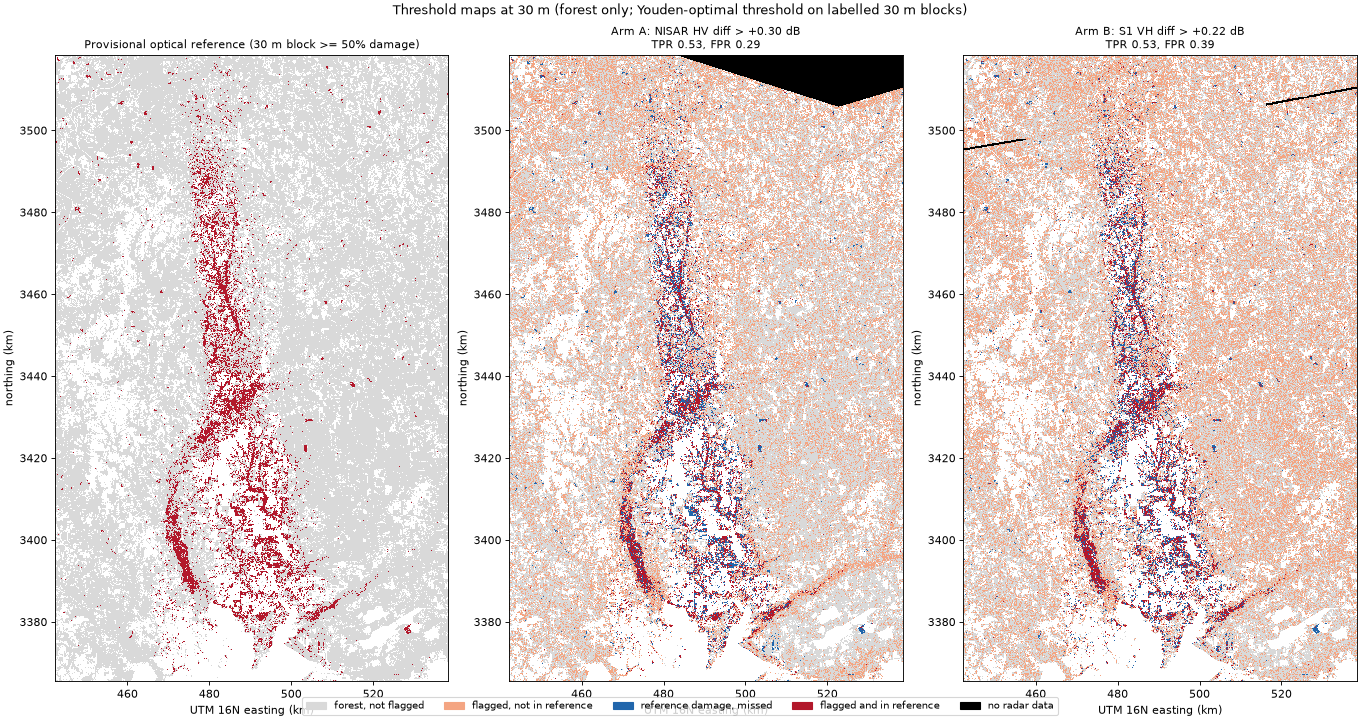
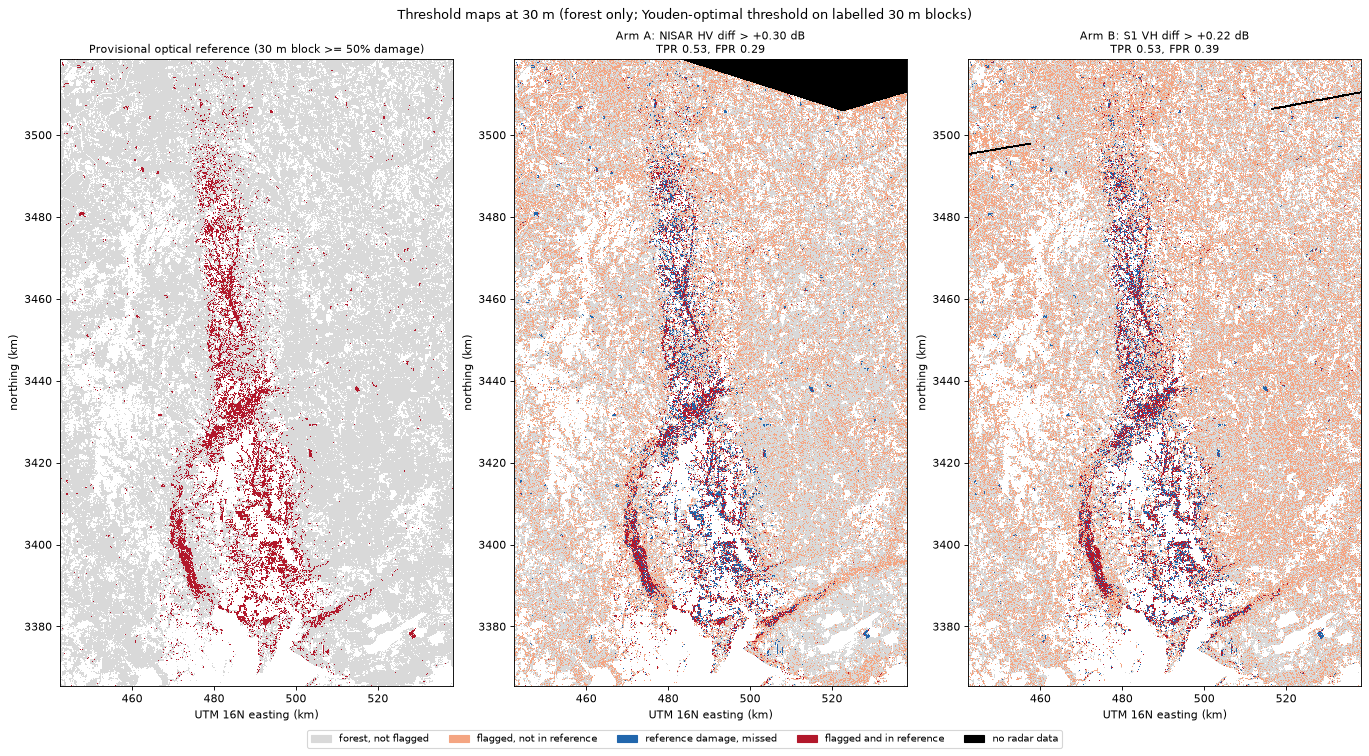
Pipeline: date-matched S1 check, label-without-2025 check, NISAR 2025 availability, report fixes

diff --git a/scripts/matched_check.py b/scripts/matched_check.py
@@ -1,0 +1,73 @@
+"""Two checks on the headline (100 m blocks, 10 km block bootstrap):
+1) Date-matched S1: NISAR's posts end 10-29, the specified S1 posts run to 11-08. Build S1 VH with October posts only
+   (orbit 19: 09-28 -> 10-22; orbit 92: mean(09-21, 10-03) -> 10-27) from data/s1_perdate_100.npz and compare with arm A.
+   The same per-date file with all specified dates is scored too, to show it reproduces arm B.
+2) Labels without the 2025 term: damage = dNBR < -0.10 & dNDVI26 < -0.06, intact = dNBR > -0.03 & dNDVI26 > -0.02
+   (same forest/water/clearcut exclusions), to see whether the 2025 control's AUC comes from the label using 2025 data.
+Writes docs/pipeline/matched_check.json."""
+import json, sys; sys.path.insert(0, "scripts")
+import h5py, numpy as np
+from scipy.stats import rankdata
+import grid as G
+HB, WB = (G.H // 300) * 300, (G.W // 300) * 300
+def auc(s, y):
+    ok = np.isfinite(s); s, y = s[ok], y[ok]; n1 = int(y.sum()); n0 = len(y) - n1
+    if n1 < 30 or n0 < 30: return np.nan
+    rk = rankdata(s); return float((rk[y].sum() - n1 * (n1 + 1) / 2) / (n1 * n0))
+c = np.load("data/coarse_100.npz"); P = np.load("data/s1_perdate_100.npz"); forest = c["ft"] > 0
+def db(x):
+    with np.errstate(divide="ignore", invalid="ignore"): return 10 * np.log10(x)
+def diffc(pre, post):
+    d = db(post) - db(pre); return d - np.nanmedian(d[forest & np.isfinite(d)])
+def mean(*a):
+    with np.errstate(invalid="ignore"): return np.nanmean(np.stack(a), 0)
+v = lambda o, d: P[f"VH_{o}_2026-{d}"]
+S1 = {"S1 VH Oct-only posts (o19 10-22, o92 10-27)": mean(diffc(v(19, "09-28"), v(19, "10-22")),
+                                                         diffc(mean(v(92, "09-21"), v(92, "10-03")), v(92, "10-27"))),
+      "S1 VH specified dates (rebuilt from per-date 100 m)": mean(diffc(v(19, "09-28"), mean(v(19, "10-22"), v(19, "11-03"))),
+                                                               diffc(mean(v(92, "09-21"), v(92, "10-03")), mean(v(92, "10-27"), v(92, "11-08")))),
+      "S1 VH orbit 92 only, Oct post 10-27": diffc(mean(v(92, "09-21"), v(92, "10-03")), v(92, "10-27"))}
+A = {"A: NISAR HV (both tracks)": c["A: NISAR HV (both tracks)"], "NISAR HV track 76": c["nisar_076:HV"]}
+rng = np.random.default_rng(5)
+def compare(a, b, dmg, lab):
+    m = lab & np.isfinite(a) & np.isfinite(b); t = 100
+    tid = (np.arange(dmg.shape[0])[:, None] // t) * 1000 + (np.arange(dmg.shape[1])[None, :] // t)
+    av, bv, yv, tv = a[m], b[m], dmg[m], tid[m]; o = np.argsort(tv); av, bv, yv, tv = av[o], bv[o], yv[o], tv[o]
+    tiles, st = np.unique(tv, return_index=True); en = np.r_[st[1:], len(tv)]; bs = []
+    for _ in range(300):
+        pk = rng.integers(0, len(tiles), len(tiles)); ix = np.concatenate([np.arange(st[p], en[p]) for p in pk])
+        bs.append(auc(av[ix], yv[ix]) - auc(bv[ix], yv[ix]))
+    lo, hi = np.nanpercentile(bs, [2.5, 97.5]); a1, b1 = auc(av, yv), auc(bv, yv)
+    return {"auc_A": round(a1, 3), "auc_B": round(b1, 3), "diff": round(a1 - b1, 3), "ci95_block": [round(float(lo), 3), round(float(hi), 3)], "n": int(m.sum())}
+out = {"date_matched": {}, "labels_without_2025": {}}
+dmg = c["dmg"] >= 0.5; lab = dmg | ((c["itc"] >= 0.9) & ~dmg)
+for ka, a in A.items():
+    for kb, b in S1.items():
+        out["date_matched"][f"{ka} vs {kb}"] = r = compare(a, b, dmg, lab); print(ka, "|", kb, r, flush=True)
+
+# ---- labels without the 2025 term, at 100 m
+S = h5py.File("data/s2_stack.h5", "r"); R = h5py.File("data/reference.h5", "r")
+fd = np.zeros((HB // 10, WB // 10), "float32"); fi = np.zeros_like(fd); d25 = {"damage": [], "intact": []}
+for r in range(0, HB, 600):
+    s = slice(r, min(r + 600, HB)); cls = S["cls"][s, :WB]; fo = np.isin(cls, (41, 42, 43, 90))
+    with np.errstate(invalid="ignore"):
+        dn = S["ndvi_post"][s, :WB] - S["ndvi_pre"][s, :WB]; dnbr = S["nbr_post"][s, :WB] - S["nbr_pre"][s, :WB]
+        water = (S["water"][s, :WB] == 1) | (S["ndvi_post"][s, :WB] < 0.1)
+    base = fo & ~water & (R["clearcut"][s, :WB] == 0) & np.isfinite(dnbr) & np.isfinite(dn)
+    dm = base & (dnbr < -0.10) & (dn < -0.06); it = base & (dnbr > -0.03) & (dn > -0.02)
+    nh = dm.shape[0] // 10
+    fd[r // 10:r // 10 + nh] = dm.reshape(nh, 10, WB // 10, 10).mean((1, 3)); fi[r // 10:r // 10 + nh] = it.reshape(nh, 10, WB // 10, 10).mean((1, 3))
+    d25v = S["dndvi25"][s, :WB]; rd, ri = R["damage"][s, :WB] == 1, R["intact"][s, :WB] == 1
+    d25["damage"].append(d25v[rd][::20]); d25["intact"].append(d25v[ri][::20])
+d2 = fd >= 0.5; lab2 = d2 | ((fi >= 0.9) & ~d2)
+res = {"damage_blocks": int((lab2 & d2).sum()), "intact_blocks": int((lab2 & ~d2).sum()),
+       "mean_dNDVI2025_in_reference_damage": round(float(np.nanmean(np.concatenate(d25["damage"]))), 4),
+       "mean_dNDVI2025_in_reference_intact": round(float(np.nanmean(np.concatenate(d25["intact"]))), 4)}
+for k in ("A: NISAR HV (both tracks)", "B: S1 VH (both orbits)", "B 2025 control: S1 VH (both orbits)", "nisar_076:HV", "s1_92_2026:VH"):
+    res[k] = {"auc_labels_with_2025": round(auc(c[k][lab], dmg[lab]), 3), "auc_labels_without_2025": round(auc(c[k][lab2], d2[lab2]), 3)}
+for t, nm in ((1, "evergreen"), (4, "woody_wetland")):
+    m2 = lab2 & (c["ft"] == t)
+    res[f"control AUC, {nm}, labels without 2025"] = round(auc(c["B 2025 control: S1 VH (both orbits)"][m2], d2[m2]), 3)
+res["A minus B, labels without 2025"] = compare(c["A: NISAR HV (both tracks)"], c["B: S1 VH (both orbits)"], d2, lab2)
+out["labels_without_2025"] = res; print(json.dumps(res, indent=1))
+json.dump(out, open("docs/pipeline/matched_check.json", "w"), indent=1)

diff --git a/scripts/pipeline_figures.py b/scripts/pipeline_figures.py
@@ -29,9 +29,9 @@ for a, (title, img) in zip(ax, [("Provisional optical reference (30 m block >= 5
     a.set_xlabel("UTM 16N easting (km)"); a.set_ylabel("northing (km)")
 from matplotlib.patches import Patch
 fig.legend(handles=[Patch(color=c, label=l) for c, l in zip(cmap.colors[1:], ["forest, not flagged", "flagged, not in reference",
-           "reference damage, missed", "flagged and in reference", "no radar data"])], loc="lower center", ncol=5, fontsize=9)
+           "reference damage, missed", "flagged and in reference", "no radar data"])], loc="upper center", bbox_to_anchor=(0.5, 0.0), ncol=5, fontsize=9)
 fig.suptitle("Threshold maps at 30 m (forest only; Youden-optimal threshold on labelled 30 m blocks)")
-fig.savefig("docs/pipeline/fig_threshold_maps.png", dpi=80); plt.close(fig)
+fig.savefig("docs/pipeline/fig_threshold_maps.png", dpi=80, bbox_inches="tight"); plt.close(fig)
 
 # ---- AUC vs resolution
 get = lambda arm, ftype, res: next((r["auc"] for r in rows if r["arm"] == arm and r["forest_type"] == ftype and r["res_m"] == res), None)

diff --git a/docs/pipeline/pipeline.md b/docs/pipeline/pipeline.md
@@ -1,23 +1,35 @@
 # Blowdown pipeline: NISAR vs Sentinel-1 over the Isaias band (study area −87.60 to −86.60, 30.40 to 31.80)
 
-**Answer: once both are stack-averaged, NISAR L-band HV separates the optical damage band from intact forest better than Sentinel-1 C-band VH at 30 m and 100 m. At 10 m it does not: both are near chance.**
+**Answer: with the dates as specified and both stack-averaged, NISAR L-band HV separates the optical damage band from intact forest better than Sentinel-1 C-band VH at 30 m and 100 m. At 10 m it does not: both are near chance.**
+
+**This lead is partly a date effect.** The specified S1 posts run to 11-08, while NISAR's end on 10-29. If S1 also uses October posts only, the two-geometry average **ties** NISAR at 100 m. **NISAR's ascending track 76 still beats every S1 option.**
 
 | Resolution | AUC, NISAR HV (both tracks) | AUC, S1 VH (both orbits) | A − B | 95% CI (10 km block bootstrap) |
 |---|---|---|---|---|
 | 10 m | 0.560 | 0.563 | −0.002 | −0.006 to +0.001 (pixel bootstrap) |
 | 30 m | 0.647 | 0.597 | **+0.050** | +0.029 to +0.061 |
 | 100 m | 0.786 | 0.710 | **+0.076** | +0.043 to +0.106 |
+| 100 m, S1 posts October only (o19 10-22, o92 10-27) | 0.786 | 0.795 | −0.009 | −0.031 to +0.012 |
+| 100 m, NISAR track 76 vs S1 October-only (both orbits) | 0.851 | 0.809 | **+0.042** | +0.023 to +0.062 |
+| 100 m, NISAR track 76 vs S1 orbit 92 October-only | 0.856 | 0.781 | **+0.075** | +0.052 to +0.103 |
 
-Read this result with five qualifications:
+The date-matched rows use S1 per-date VH aggregated to 100 m in Earth Engine. The same file with the specified dates reproduces arm B exactly (0.710).
+Source: [matched_check.json](matched_check.json). No date-matched check was run at 30 m.
+
+Qualifications:
 1. **The NISAR lead comes from track 76 (ascending).** Track 76 HV reaches 0.851 at 100 m. Track 55 (descending) reaches only 0.606, which is below Sentinel-1 orbit 92 (0.771).
-   Comparing the best geometry of each sensor gives the same direction: track 76 HV 0.856 vs orbit 92 VH 0.787, +0.069 (CI +0.043 to +0.099) on the 100 m blocks valid in both.
-2. **The no-storm floor is not 0.5.** Sentinel-1 VH for the same weeks of 2025, scored against the 2026 labels, gets AUC 0.628 at 100 m (0.672 in woody wetland). Part of the all-forest separation is therefore a land-cover or seasonal effect.
-   Damage is 48% woody wetland and intact is 20%. **NISAR has no 2025 control** because it wasn't acquiring then, so its no-storm floor is unknown.
-3. **Within forest type, NISAR still leads at 100 m.**
+2. **The C-band damage signal is short-lived.** Orbit 19 scores 0.736 for 09-28→10-22 but 0.384 for 09-28→11-03, so averaging in 11-03 drops it to 0.536.
+   NISAR has no scene after 10-29, so whether L-band also fades is untested. Its 10-17-only post scored 0.842 and the 10-17 + 10-29 average scored 0.851.
+3. **The no-storm floor is not 0.5.** Sentinel-1 VH for the same weeks of 2025, scored against the 2026 labels, gets AUC 0.628 at 100 m (0.672 in woody wetland).
+   This is not because the label uses 2025 NDVI. With a label that leaves out the 2025 term, the control rises to 0.671 (evergreen 0.597, woody wetland 0.708).
+   It's a land-cover/backscatter-change pattern that tracks where the band is: damage is 48% woody wetland and intact is 20%.
+   **NISAR has no matching 2025 control.** NISAR GCOV for track 76 starts 2025-10-22, and there is no 2025 pre-storm pair (see Not verified).
+4. **Within forest type, NISAR still leads at 100 m.**
    - Evergreen: NISAR 0.668, S1 0.615, 2025 control 0.571.
    - Woody wetland: NISAR 0.864, S1 0.813, 2025 control 0.672.
-4. **Stack averaging hurt Sentinel-1.** Orbit 19's damage signal is strong on 10-22 (AUC 0.736) and reversed by 11-03 (0.384), so the 1+2-date mean drops to 0.536. The best single Sentinel-1 pair, orbit 92 09-21→10-27, reaches 0.756, still below NISAR track 76.
+   These use the specified S1 dates, not date-matched.
 5. **The reference is provisional and optical.** It is not aerial or field truth (Step 4).
+   With the label that leaves out 2025, every arm scores a little higher and the specified-dates lead is +0.087 (CI +0.064 to +0.111).
 
 ![AUC vs resolution](fig_auc_resolution.png)
 
@@ -45,7 +57,7 @@ The requested S1 dates split across the two orbits (the date→orbit check is in
 **Processing:**
 - **Grid:** one common 10 m UTM 16N grid, 9,607 × 15,533 px. NISAR is natively on this lattice (shift 0 m for all 8 scenes). Sentinel-1 and Sentinel-2 are pulled onto it through Earth Engine.
 - **NISAR masking:** mask values 0 and 255 are set to NaN.
-- **Sentinel-1 masking:** power ≤ 0 is set to NaN, and the swath edges are trimmed by 200 m. Zero-power pixels occurred along the S1D swath edge plus about 350 scattered forest pixels.
+- **Sentinel-1 masking:** power ≤ 0 is set to NaN, and the swath edges are trimmed by 200 m. Zero-power pixels occurred along the S1D swath edge plus scattered interior pixels (about 0.02% of forest).
 - **Stacking:** for each track or orbit, pre and post scenes are averaged in linear power, then converted to dB. The output is pre, post, diff and diff recentred on the forest median.
 - **Forest-median offsets removed:**
 
@@ -81,7 +93,7 @@ Numbers: [reference.json](reference.json).
 
 ### Threshold maps (30 m)
 
-Each map uses the Youden-optimal threshold on labelled 30 m blocks. Arm A is NISAR HV > +0.30 dB (TPR 0.53, FPR 0.29). Arm B is S1 VH > +0.22 dB (TPR 0.53, FPR 0.39).
+Each map uses the Youden-optimal threshold on labelled 30 m blocks. Arm A is NISAR HV > +0.30 dB (TPR 0.53, FPR 0.29). Arm B is S1 VH > +0.22 dB (TPR 0.53, FPR 0.39). TPR and FPR are in-sample: the threshold was chosen on the same blocks it is scored on.
 
 ![threshold maps](fig_threshold_maps.png)
 
@@ -150,27 +162,31 @@ Track 55 HV goes the wrong way in evergreen pine: damaged pine shows *lower* HV 
 | 92 | post→post 10-27→11-08 | 0.441 | −0.15 |
 
   The C-band damage response is strongest about two weeks after the storm and fades or reverses within weeks. That points to moisture (wet debris, standing water in bottomlands) as part of the signal. Orbit 19's 11-03 scene reverses it outright.
-  NISAR track 76 did not fade: the 10-17-only post scored 0.842 and the 10-17 + 10-29 average scored 0.851.
+  NISAR can't be tested for the same fading: it has no scene after 10-29. The 10-17-only post scored 0.842 and the 10-17 + 10-29 average scored 0.851.
 - **Pixel vs spatial bootstrap.** The pixel bootstrap gave CIs of ±0.003. The 10 km block bootstrap gives ±0.02–0.03, which is the honest figure; both are reported above.
 
 ## Disk and time
 
 | Item | Value |
 |---|---|
-| Free disk | 706.1 GB at start, **lowest 691.8 GB** (during NISAR downloads), about 646 GB at end. The 15 GB stop never came close. |
+| Free disk | 706.1 GB at start, 691.8 GB lowest during the NISAR downloads, about 646 GB at the end (**the lowest point**, after the Earth Engine pulls and layer files). The 15 GB stop never came close. |
 | NISAR | 6 new scenes downloaded, 37.0 GB in 4,877 s (81 min, about 7.6 MB/s), one at a time. Each was extracted to compact HH/HV (0.77–0.88 GB, 8 s each), then the raw file was deleted. The 2 gate scenes were reused (raw kept from the gate: 12.2 GB). Peak RAM 0.24 GB. |
 | Sentinel-1 EE pulls (10 m) | 2026: 1,035 s; 2025: 1,022 s (77 tiles per orbit); 6.7 GB. Per-date 100 m check: 9 min. |
 | Sentinel-2 EE pull (10 m, 8 bands) | 6,168 s (103 min); 2.85 GB |
 | Combine / reference / evaluate | About 30 s per arm, 19 s, and 305 s (peak RAM 3.1 GB) |
 | `data/` on disk | 62 GB. `layers.h5` is 36 GB of that, inflated by repeated rewrites; it's derived and can be deleted and regenerated with `stack_combine.py`. Compact NISAR 6.6 GB, S1 6.7 GB, S2 2.8 GB, coarse npz 1.5 GB. |
-| Wall clock for this pipeline | About 4.5 h, mostly NISAR download (81 min) and the S2 pull (103 min) |
+| Wall clock for this pipeline | About 4.5 h (00:38–05:10 for steps 2–6), mostly the NISAR download (81 min) and the S2 pull (103 min) |
 
 ## Not verified
 
 - **Truth.** The reference is a heuristic optical mask (dNBR plus NDVI anomaly thresholds), not windthrow observed on the ground or in aerial imagery. The aerial footprint covers only the band's southern tip, and I didn't compare it pixel by pixel.
   The thresholds (−0.10, −0.06, −0.03, −0.02) are judgment calls.
 - **What the radar responds to.** The Sentinel-1 signal fades or reverses by early November, and damage is concentrated in woody wetland. Part of both sensors' response may be moisture or flooding in bottomlands rather than structural damage. I haven't checked river gauges, rainfall or a flood product.
-- **The NISAR no-storm floor.** It's unknown, since there was no 2025 NISAR acquisition. Sentinel-1's floor is 0.63 at 100 m.
+- **The NISAR no-storm floor.** ASF metadata shows NISAR GCOV from 2025-10-22 on: track 76 frame 17 has 2025-10-22, 11-03 and 11-15; track 55 frame 73 starts 2025-11-26. So there is no 2025 pre-storm pair.
+  Two partial no-storm controls are possible but **not downloaded (they need your OK)**:
+  - Track 76, 2025-10-22→11-03: same weeks as the posts, about 12 GB.
+  - Track 76, 2026-09-11→09-23: pre-storm, about 6 GB plus the 09-23 scene, which would be re-downloaded because its raw file was deleted.
+  Sentinel-1's floor is 0.63 at 100 m.
 - **The P05036 offset** (0.6 dB HV, 1 dB HH): calibration or environment, not resolved.
 - **Track 55 HV reversal in evergreen**, and why descending is so much weaker than ascending. Ascending passes at about 06:02 local time (possible dew) and descending at about 19:37. I didn't test this.
 - **Orbit 19's 11-03 scene:** not inspected for rain or wet-surface conditions.
@@ -185,6 +201,6 @@ Track 55 HV goes the wrong way in evergreen pine: damaged pine shows *lower* HV 
 Scripts are in `scripts/`; run them with `.venv/Scripts/python -I`.
 1. Step 1: `extent_ee`, `extent_nisar`, `extent_noaa`, `extent_analysis`.
 2. Stacks: `stack_search`, `stack_build`, `s1_stack 2026`, `s1_stack 2025`, `s2_stack`.
-3. Combine and evaluate: `stack_combine`, `reference`, `scene_check`, `evaluate`, `s1_perdate`, `sensitivity`, `pipeline_figures`.
+3. Combine and evaluate: `stack_combine`, `reference`, `scene_check`, `evaluate`, `s1_perdate`, `sensitivity`, `matched_check`, `pipeline_figures`.
 
 `data/` is git-ignored.
